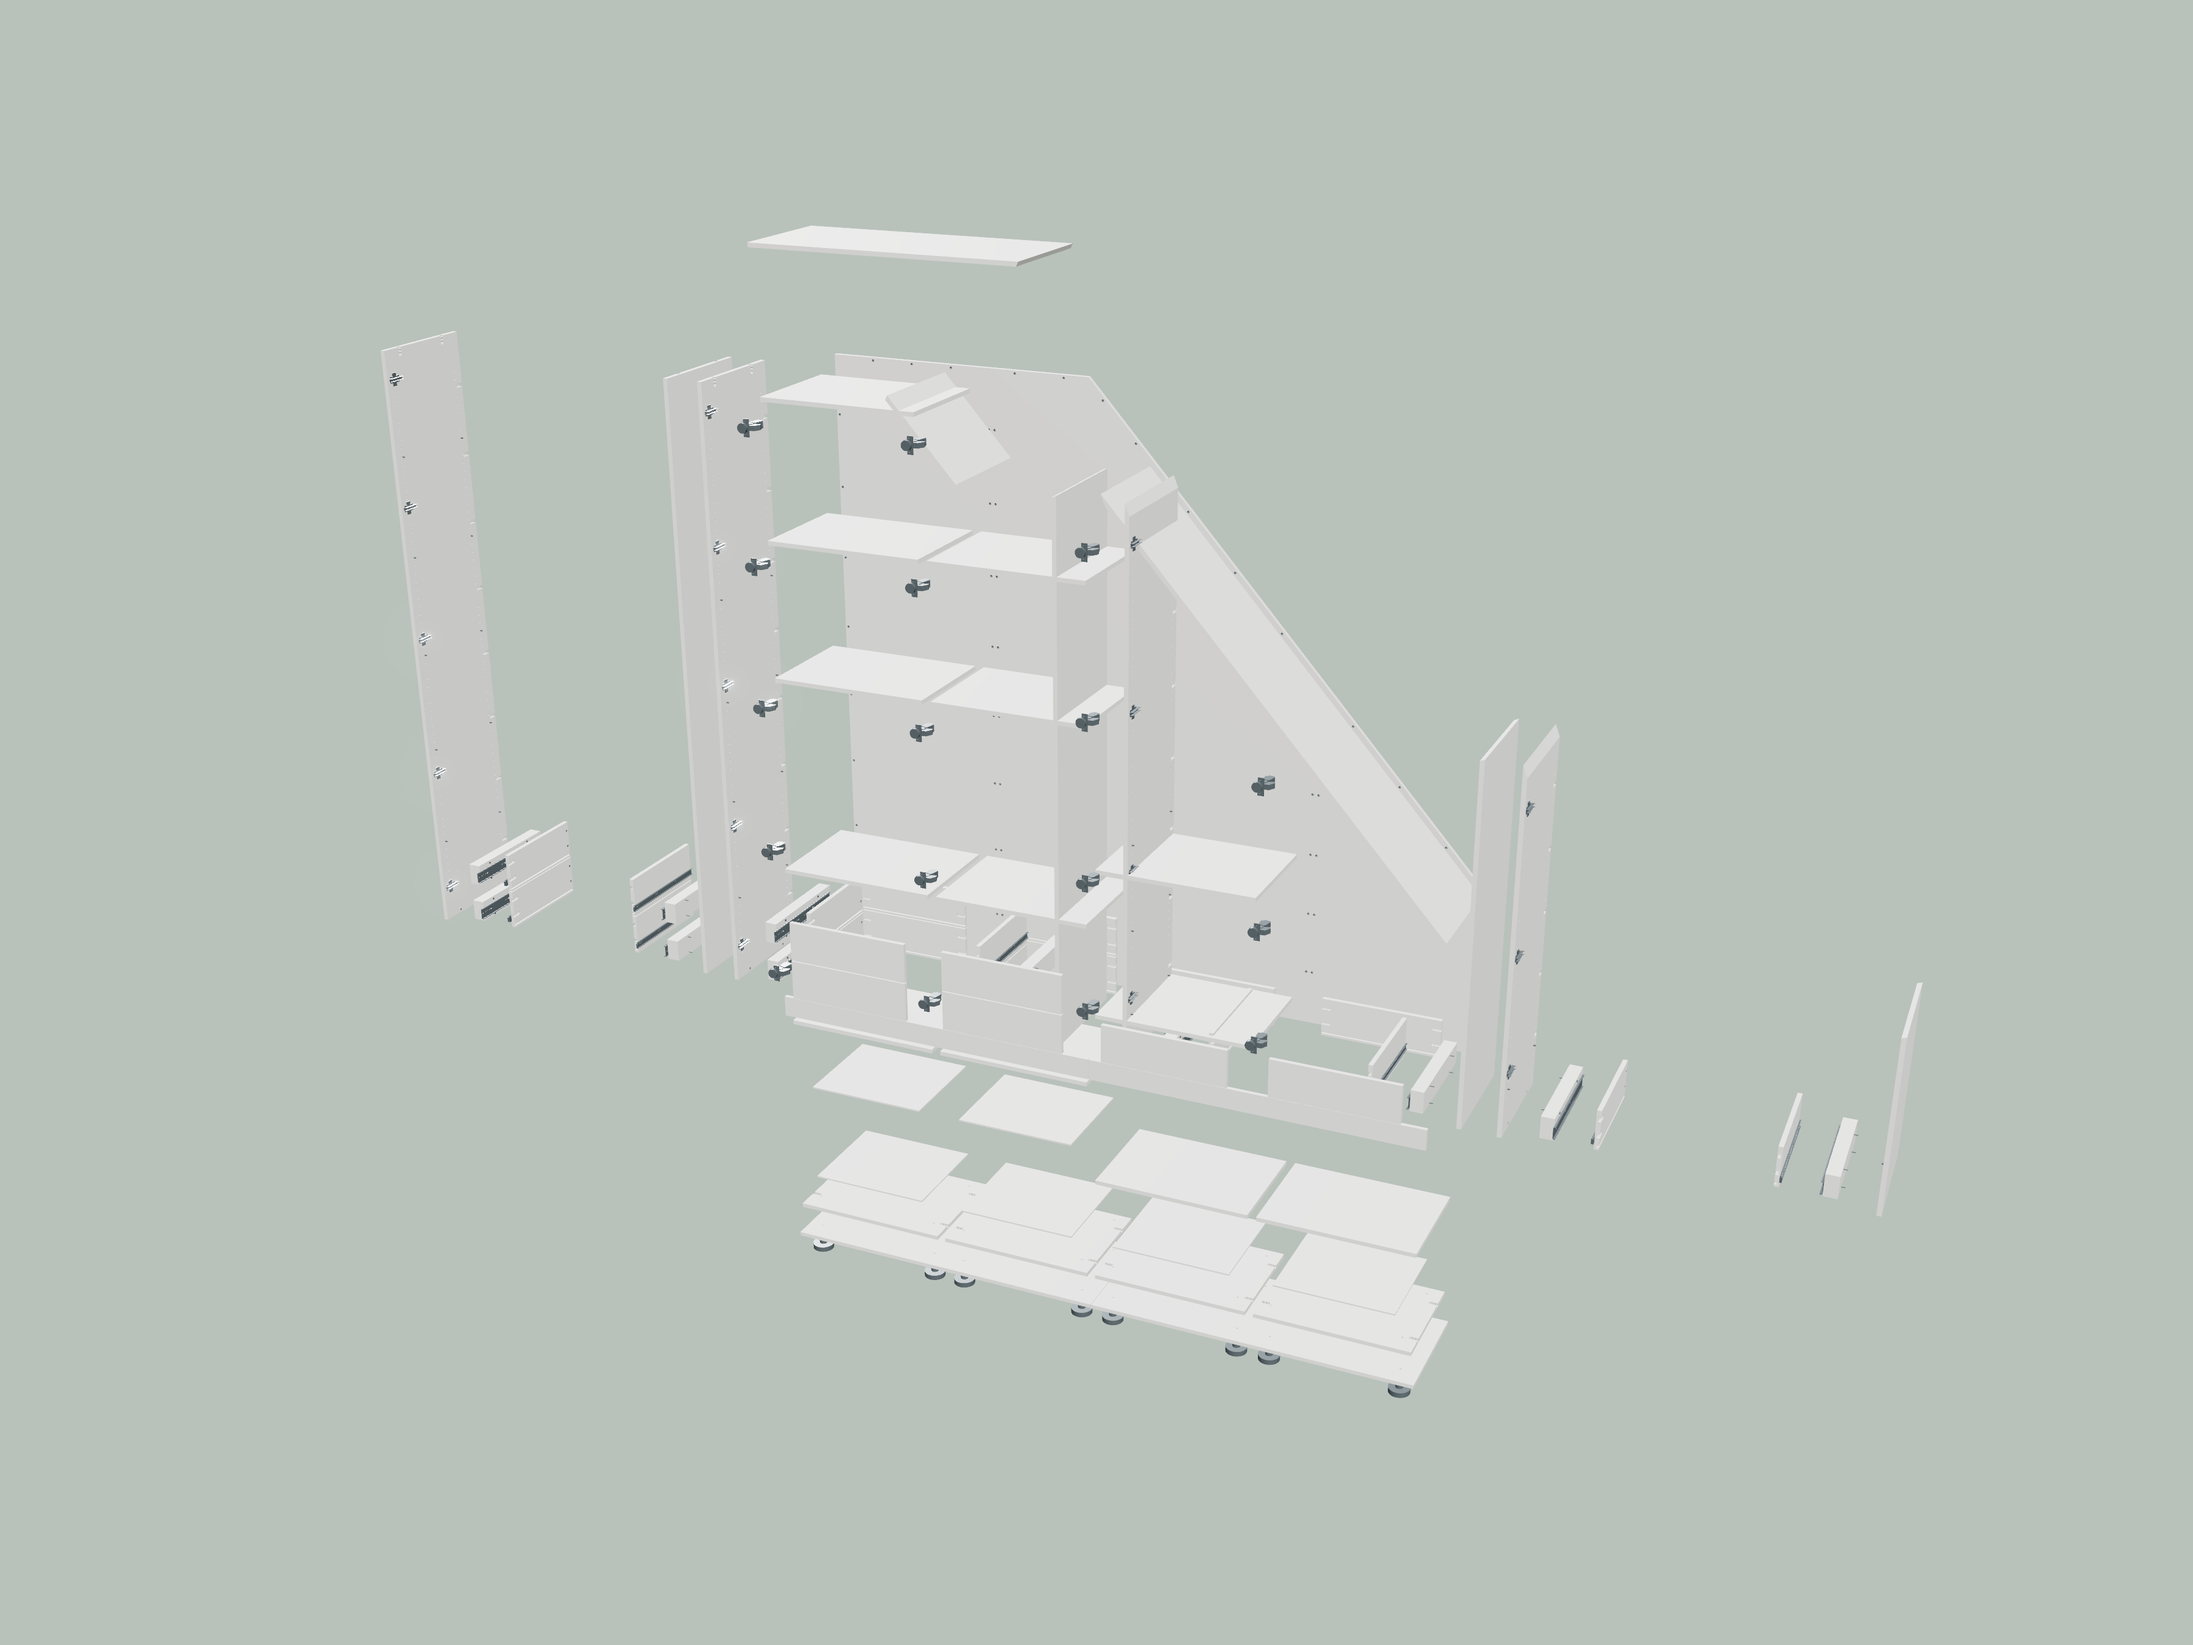
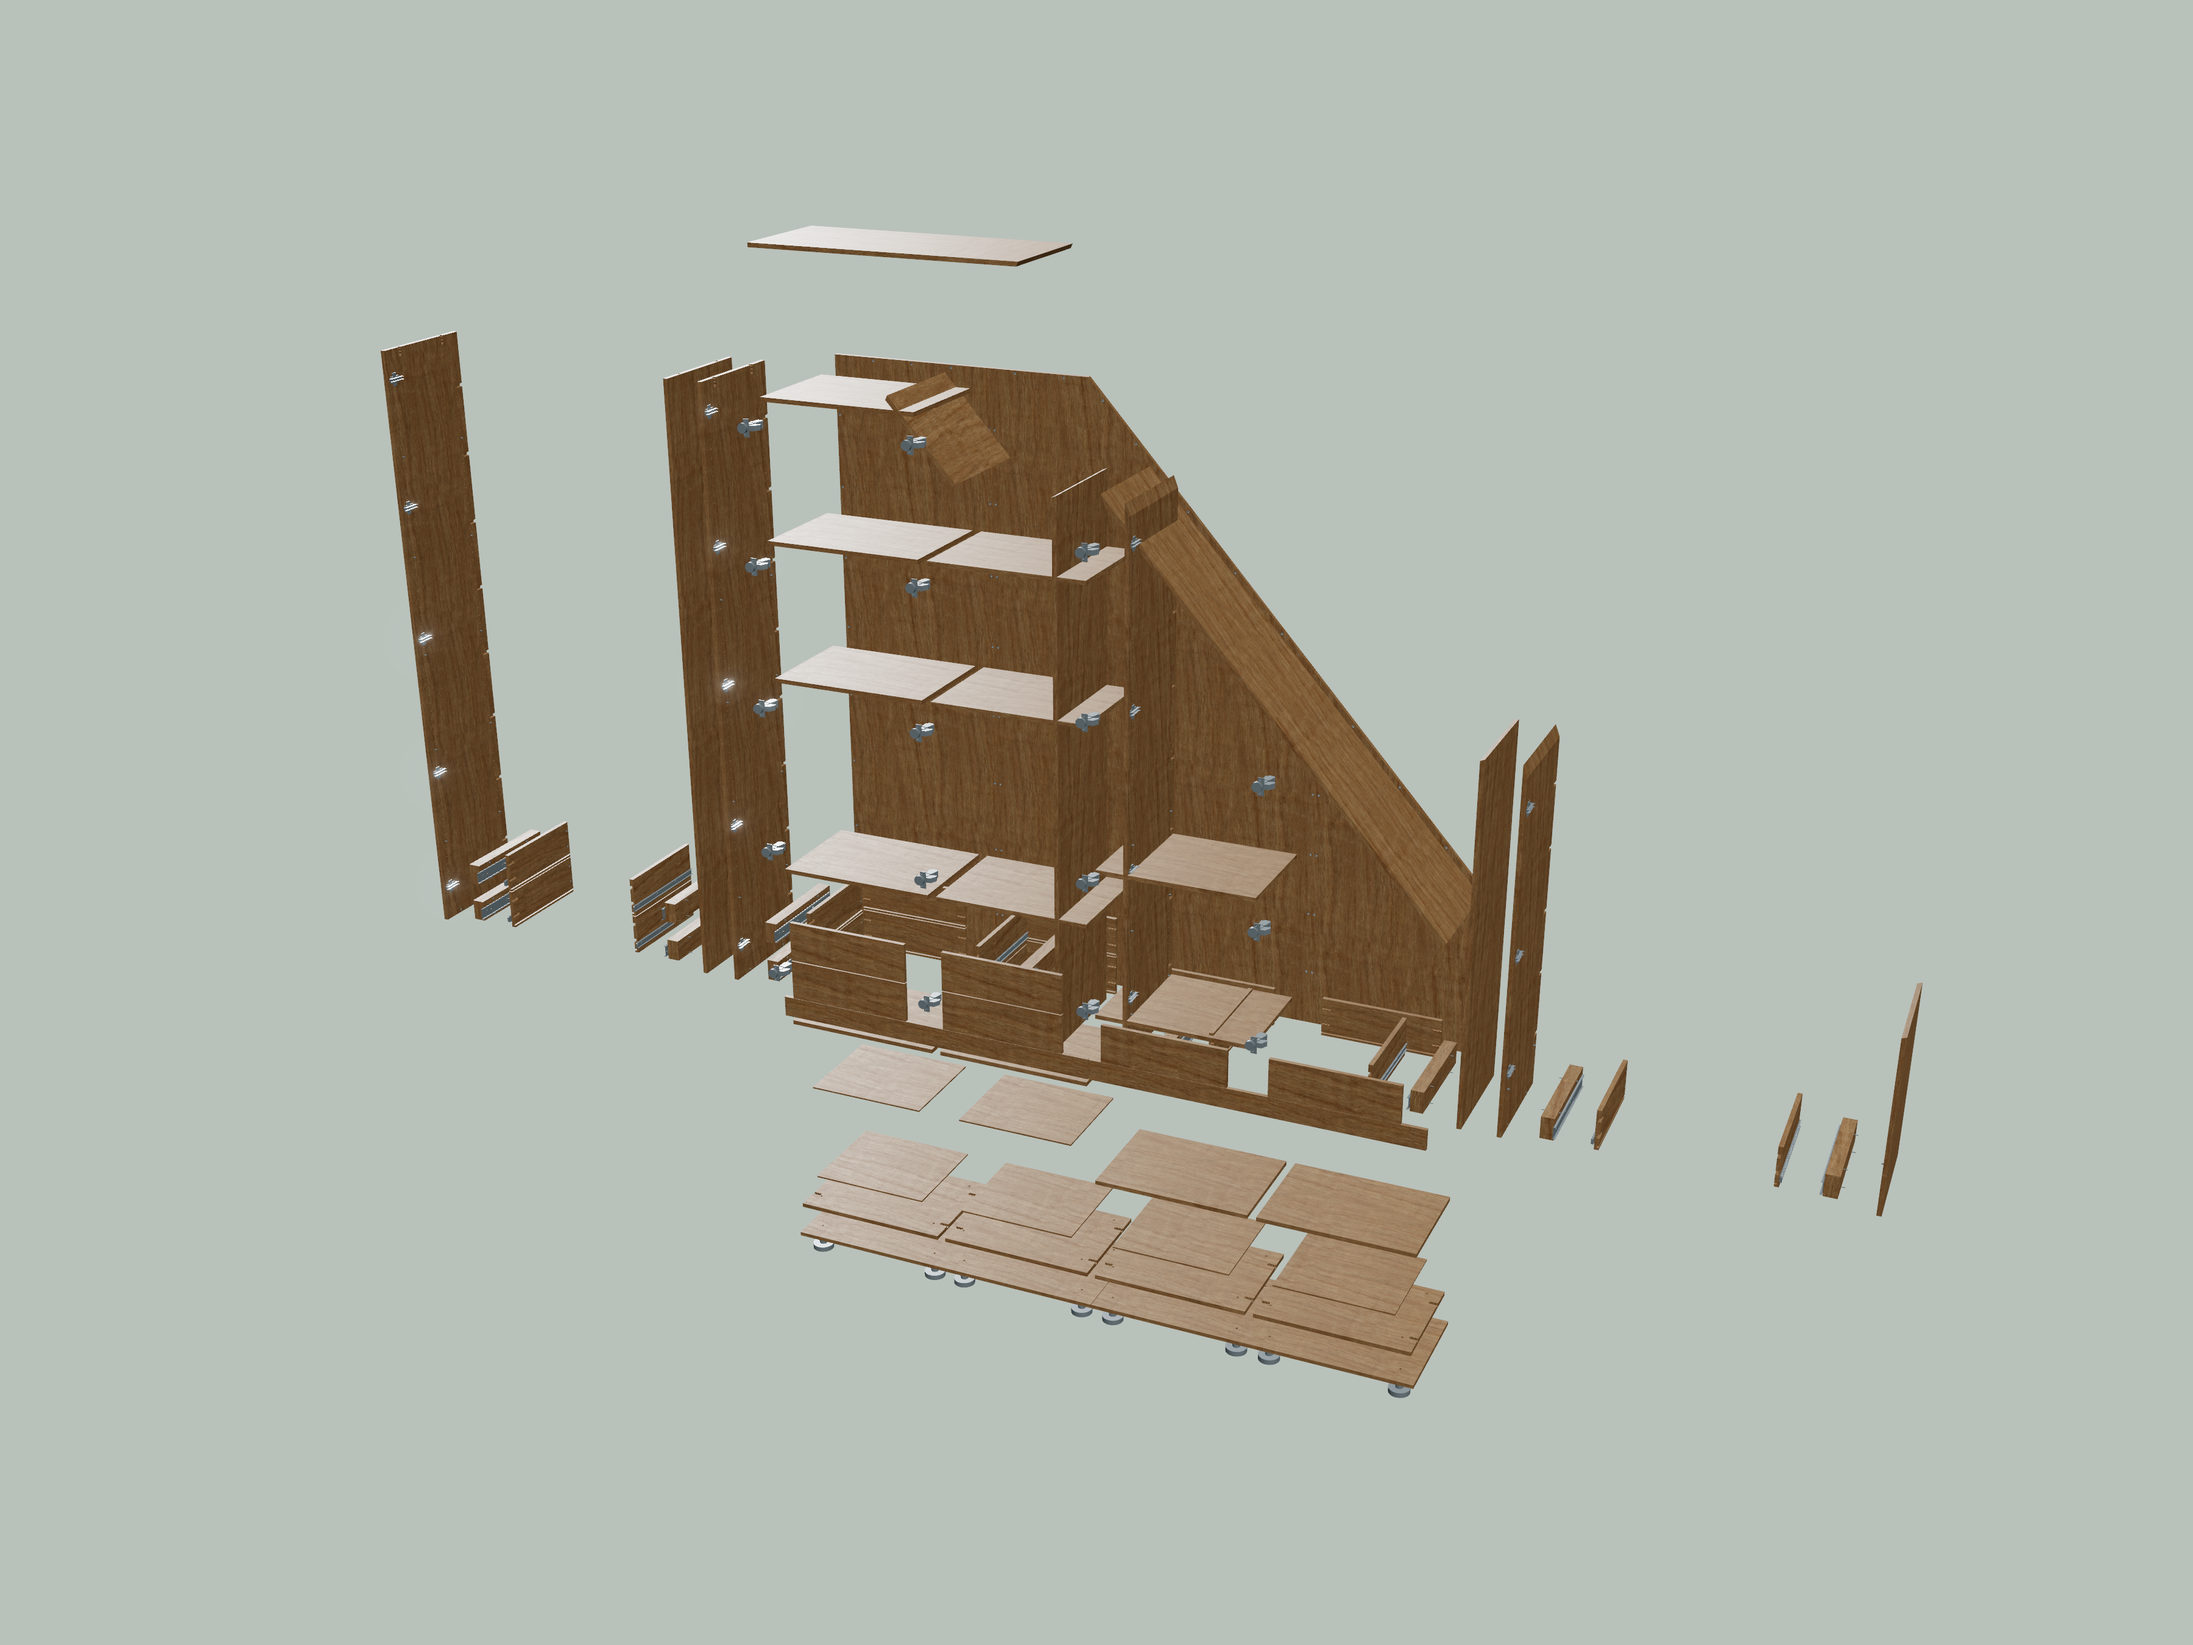
feat: restore wood finish in wardrobe showcase and README

Changed region(s): [[0.1556, 0.1867, 0.7467, 0.84], [0.8089, 0.6222, 0.8711, 0.7467], [0.4044, 0.1244, 0.4978, 0.1867]]

diff --git a/viewer/showcase/ShowcaseModel.js b/viewer/showcase/ShowcaseModel.js
@@ -2,6 +2,7 @@
 import { EdgesGeometry, LineBasicMaterial, LineSegments, MeshStandardMaterial, Vector3 } from "three";
 import { GLTFLoader } from "three/addons/loaders/GLTFLoader.js";
 import { AssemblyPresentation } from "../src/AssemblyPresentation.js";
+import { ShowcaseWoodSurface } from "./ShowcaseWoodSurface.js";
 import { ShowcaseLighting } from "./ShowcaseLighting.js";
 import modelUrl from "./wardrobe.glb.gz?url";
 
@@ -15,7 +16,7 @@ export class ShowcaseModel {
     gltf.scene.updateMatrixWorld(true);
     this.presentation = new AssemblyPresentation(gltf.scene, gltf.parser.associations);
     this.scene = this.presentation.scene;
-    const white = new MeshStandardMaterial({color: 0xfaf9f6, roughness: 0.7, metalness: 0});
+    const wood = await ShowcaseWoodSurface.load();
     const metal = new MeshStandardMaterial({color: 0x879399, roughness: 0.38, metalness: 0.4});
     const brass = new MeshStandardMaterial({color: 0xc79b4e, roughness: 0.38, metalness: 0.6});
     const materials = {hardware: metal, door_handle: brass};
@@ -23,7 +24,8 @@ export class ShowcaseModel {
     for (const part of this.presentation.records) {
       part.node.traverse(node => {
         if (!node.isMesh) return;
-        node.material = materials[part.kind] ?? white;
+        if (materials[part.kind]) node.material = materials[part.kind];
+        else wood.applyTo(node, part.name);
         if (part.kind === "door_frame") node.add(new LineSegments(new EdgesGeometry(node.geometry), frameEdges));
       });
     }

diff --git a/viewer/showcase/ShowcaseWoodSurface.js b/viewer/showcase/ShowcaseWoodSurface.js
@@ -1,0 +1,30 @@
+/** Scope: Share packaged wood textures and real-scale grain across showcase panels. */
+import { MeshStandardMaterial, RepeatWrapping, SRGBColorSpace, TextureLoader } from "three";
+import { PanelTextureCoordinates } from "../src/PanelTextureCoordinates.js";
+import colorUrl from "../public/materials/plywood/plywood_diff_1k.jpg?url";
+import normalUrl from "../public/materials/plywood/plywood_nor_gl_1k.jpg?url";
+import roughnessUrl from "../public/materials/plywood/plywood_rough_1k.jpg?url";
+
+export class ShowcaseWoodSurface {
+  static async load() {
+    const loader = new TextureLoader();
+    const maps = await Promise.all([colorUrl, normalUrl, roughnessUrl].map(url => loader.loadAsync(url)));
+    return new ShowcaseWoodSurface(...maps);
+  }
+
+  constructor(map, normalMap, roughnessMap) {
+    map.colorSpace = SRGBColorSpace;
+    for (const texture of [map, normalMap, roughnessMap]) {
+      texture.wrapS = texture.wrapT = RepeatWrapping;
+      texture.anisotropy = 4;
+    }
+    this.material = new MeshStandardMaterial({map, normalMap, roughnessMap, roughness: 0.7, metalness: 0});
+    this.material.normalScale.set(0.12, 0.12);
+    this.coordinates = new PanelTextureCoordinates();
+  }
+
+  applyTo(mesh, identity) {
+    this.coordinates.applyTo(mesh.geometry, identity);
+    mesh.material = this.material;
+  }
+}

diff --git a/viewer/showcase/ShowcaseScene.js b/viewer/showcase/ShowcaseScene.js
@@ -1,4 +1,4 @@
-/** Scope: Render white CAD with consistent lighting and responsive inspection poses. */
+/** Scope: Render textured CAD with consistent lighting and responsive inspection poses. */
 import { ACESFilmicToneMapping, AmbientLight, Color, DirectionalLight, HemisphereLight, PerspectiveCamera, Scene, Vector2, Vector3, WebGLRenderer } from "three";
 import { ShowcaseRenderQueue } from "./ShowcaseRenderQueue.js";
 import { ShowcaseDepthRange } from "./ShowcaseDepthRange.js";
@@ -33,7 +33,7 @@ export class ShowcaseScene {
     const samples = Math.min(4, this.renderer.capabilities.maxSamples);
     for (const target of [this.composer.renderTarget1, this.composer.renderTarget2]) target.samples = samples;
     this.composer.addPass(new RenderPass(this.scene, this.camera));
-    // HDR threshold isolates the emissive strips from white panels and brass.
+    // HDR threshold isolates the emissive strips from wood panels and brass.
     const bloom = new UnrealBloomPass(new Vector2(1, 1), 0.35, 0.25, 2);
     // A soft threshold avoids abrupt glow switching as narrow strips cross pixels.
     bloom.highPassUniforms.smoothWidth.value = 1;

diff --git a/viewer/showcase/index.html b/viewer/showcase/index.html
@@ -27,7 +27,7 @@
         <p id="caption">101 panel pieces + 511 hardware components · door panels hidden</p>
         <span class="gesture">Drag to rotate · pinch or scroll to zoom</span></div>
     </section>
-    <p class="note">Real CAD geometry, including the machining. White finish is for inspection. LED glow is illustrative; interior light spill is shown with doors hidden in the assembled view. Hardware included except Cabineos; some fixings use simplified source geometry. The applied frames and brass handles are appearance proposals; fit and attachment remain unverified.</p>
+    <p class="note">Real CAD geometry, including the machining. Wood grain shows the proposed finish. LED glow is illustrative; interior light spill is shown with doors hidden in the assembled view. Hardware included except Cabineos; some fixings use simplified source geometry. The applied frames and brass handles are appearance proposals; fit and attachment remain unverified.</p>
   </main>
   <script type="module" src="./ShowcaseApp.js"></script>
 </body>

diff --git a/docs/readme-3d.md b/docs/readme-3d.md
@@ -3,7 +3,7 @@
 ## Scope
 
 Provide assembled and exploded wardrobe inspection from the README, with real
-machining visible in a white interactive viewer. Preserve the existing images
+machining visible in a wood-textured interactive viewer. Preserve the existing images
 and installation guidance. The audit below records the superseded STL approach.
 
 ## Work packages
@@ -17,7 +17,7 @@ and installation guidance. The audit below records the superseded STL approach.
 
 ## Current state
 
-The detailed white CAD viewer supersedes the simplified inline STL previews.
+The detailed CAD viewer supersedes the simplified inline STL previews.
 It includes all 84 original panels, 17 applied frame pieces and 507 saved hardware
 components (Cabineos excluded), plus four proposed brass pulls, with assembled and
 exploded views, a door-panel toggle and warm interior lighting with an on/off control. All machining stays
@@ -455,3 +455,27 @@ all approved viewer behavior, including warm light.
     Reviewed the diff and checked every image reference. PR remains unmerged;
     the default-branch README is unchanged. Capture tooling stays in ignored
     local evidence and is not included in the public branch.
+
+## Wood finish restoration
+
+Patrick clarified that white was chosen only because of the assumed limitations
+of a model inside the README. Restore wood in the hosted viewer and the four
+high-resolution README images, keeping the approved lighting and real geometry.
+
+- [x] Apply the existing packaged wood maps with shared textures and panel grain coordinates.
+- [x] Verify assembled, closed, exploded and machining views, plus controls.
+- [x] Regenerate all four high-resolution README images.
+- [ ] Publish and verify the viewer; push source and branch documentation to PR #1.
+
+57. Reuse the three existing CC0 plywood maps (about 2.2 MB total), shared by all
+    wood panels and frames. Keep metal fittings and brass handles separate.
+    Reuse the existing 500 mm grain mapping; do not simplify machining geometry.
+    Retain soft golden lighting and the existing render pipeline. This implements
+    Patrick's clarified finish preference rather than adding a new finish choice.
+
+58. All 78 existing viewer tests pass and the showcase production build succeeds.
+    Browser checks confirm rotation, doors, exploded/assembled controls and
+    lighting off/on behavior. Visually checked all four native 3600 × 2700 PNG
+    exports: wood grain, brass handles and real machining remain visible. No
+    browser warnings or errors were recorded in the local viewer check. The
+    existing bundle-size advisory remains; the model binary is unchanged.

diff --git a/README.md b/README.md
@@ -14,7 +14,7 @@ list, and assembly information. Before releasing the cutting package, your
 assistant checks that the parts and fittings work together. Cost calculations
 show the assumptions for materials, hardware, machining, finishing and delivery.
 
-<img src="docs/images/wardrobe-assembled.png" alt="White fitted wardrobe beneath a sloping ceiling, with doors hidden to show shelves, drawer stacks, hinges and interior lighting." width="760">
+<img src="docs/images/wardrobe-assembled.png" alt="Wooden fitted wardrobe beneath a sloping ceiling, with doors hidden to show shelves, drawer stacks, hinges and interior lighting." width="760">
 
 *An example from the AIkea viewer: a fitted wardrobe with shelves, drawers and
 integrated lighting. The doors are hidden for inspection; these are digital
@@ -25,7 +25,7 @@ design previews.*
 [Open the assembled wardrobe](https://patrickgrothols.github.io/AIkea-skill/) ·
 [Explore the exploded view](https://patrickgrothols.github.io/AIkea-skill/?view=exploded)
 
-Zoom in to see the machining details. The viewer’s 84 white panels preserve the
+Zoom in to see the machining details. The viewer’s 84 wood-textured panels preserve the
 actual holes, pockets and grooves from the CAD model. Toggle the doors to see
 inside, including illuminated LED strips. Hinges, drawer runners, feet and other fittings are included; only
 Cabineo connector bodies are omitted. Some fixings use simplified geometry from
@@ -36,7 +36,7 @@ concepts; their attachment and additional clearance remain unqualified. This exa
 
 Toggle **Show doors** to inspect the proposed applied frames and brass handles.
 
-[![White framed doors with brass pulls following the wardrobe’s sloped outline.](docs/images/wardrobe-framed.png)](https://patrickgrothols.github.io/AIkea-skill/)
+[![Wooden framed doors with brass pulls following the wardrobe’s sloped outline.](docs/images/wardrobe-framed.png)](https://patrickgrothols.github.io/AIkea-skill/)
 
 ## From the whole cabinet to every part
 
